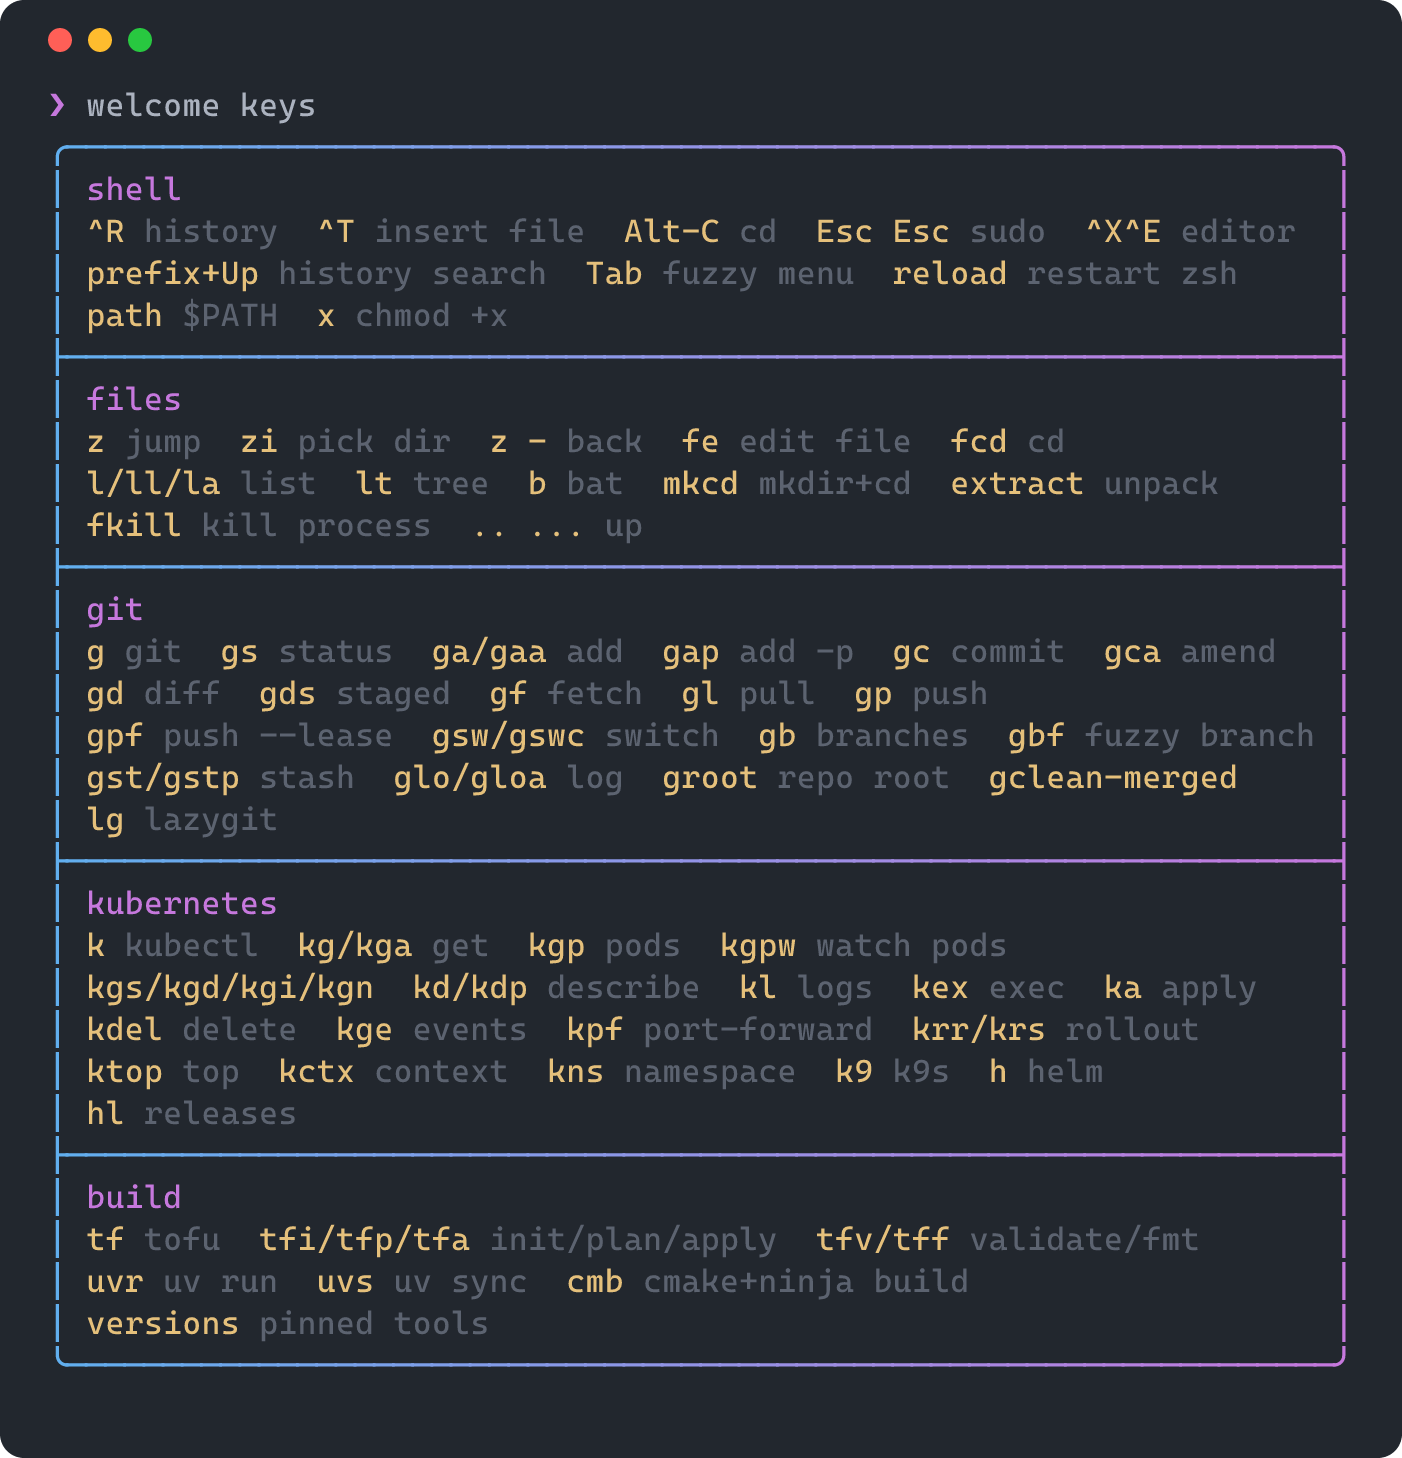
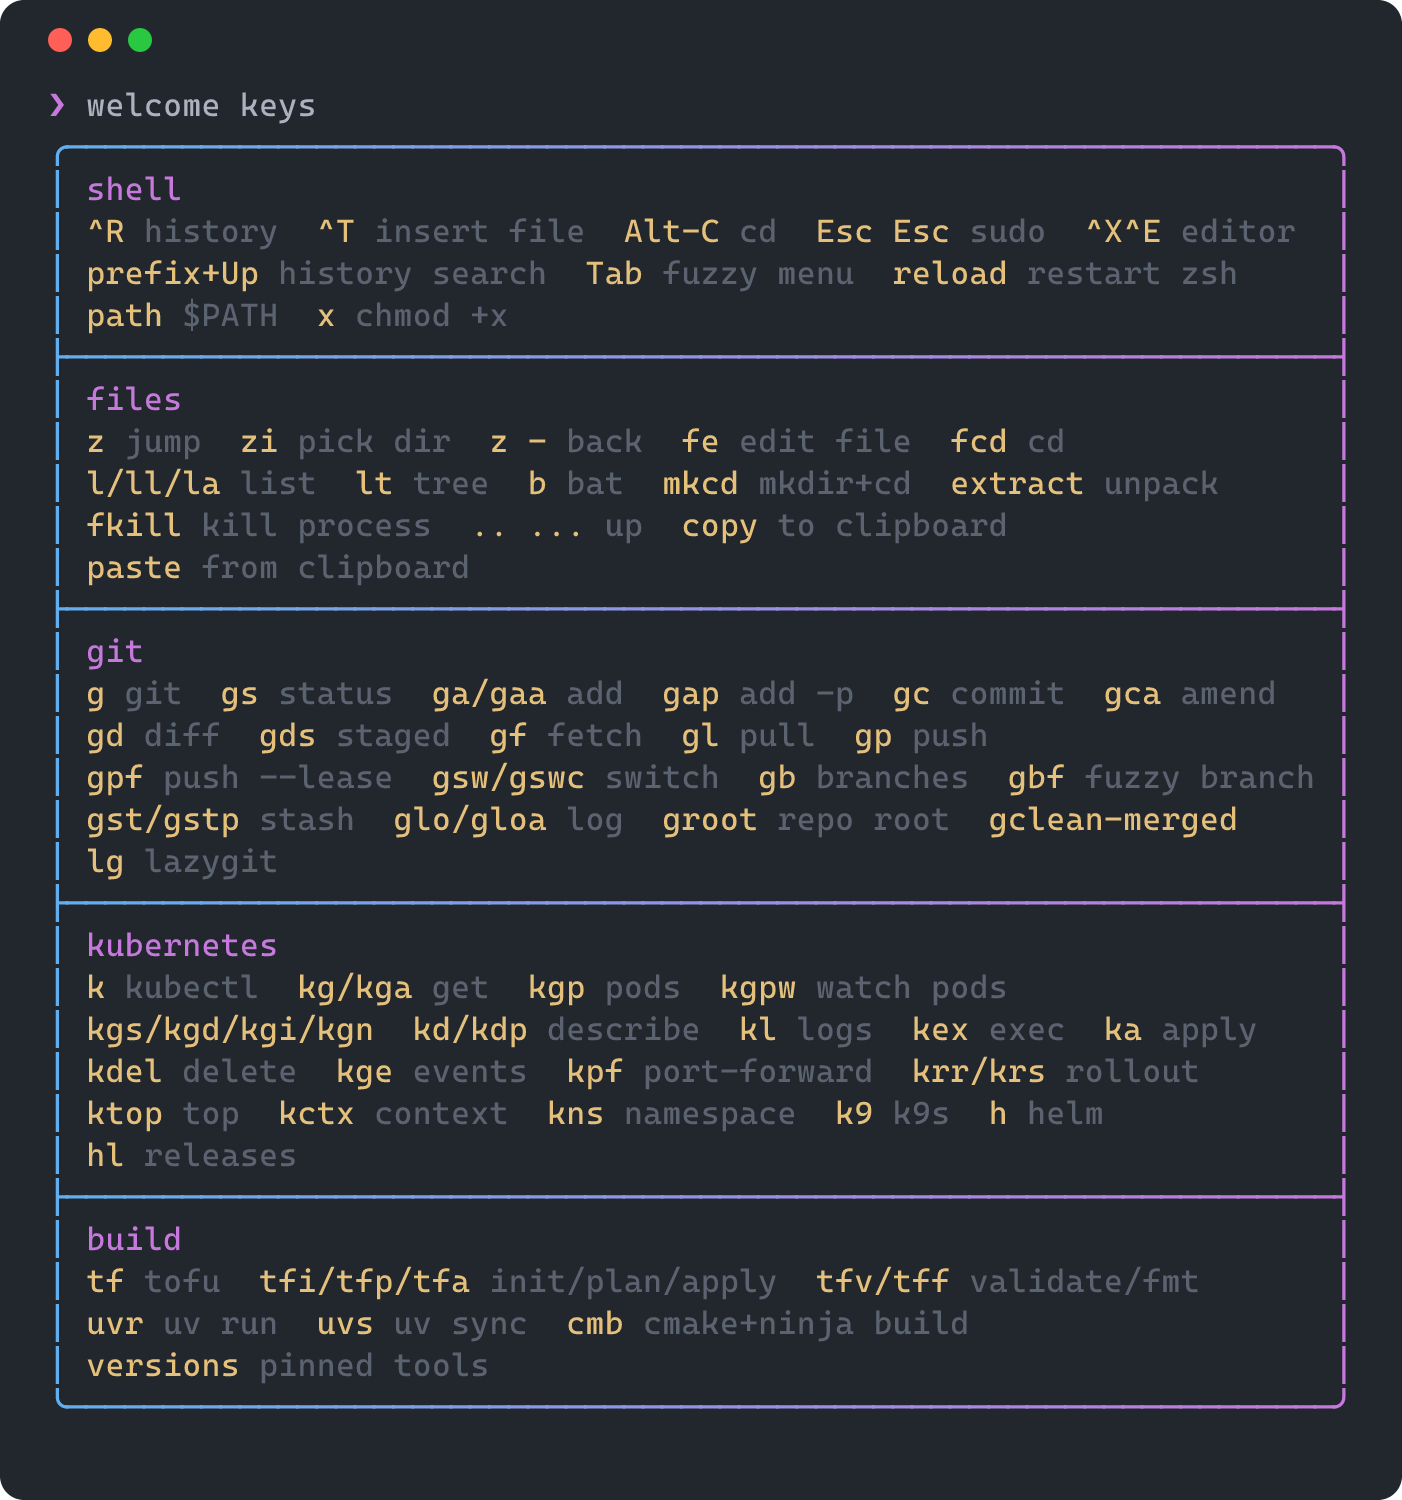
feat(zsh): add copy and paste for the clipboard
`<command> | copy` or `copy <file>` puts text on the clipboard and
`paste` prints it, with whatever clipboard the shell has: the dev image's
xclip bridge in a container, and on hosts that use this shell config,
pbcopy/pbpaste (macOS), the Windows clipboard from WSL (clip.exe with
UTF-16 so non-ASCII text survives, PowerShell to read), wl-copy/wl-paste
(Wayland), xclip (X), or else OSC 52.

paste(1) is a standard command, so `paste` only reads the clipboard when
called alone at the prompt; with arguments or piped input it is still
paste(1). A bare `copy` shows its usage instead of waiting for input.
Both are in `welcome keys` and the tips.

Changed region(s): [[0.0307, 0.0617, 0.9508, 0.9568]]

diff --git a/.claude/CLAUDE.md b/.claude/CLAUDE.md
@@ -27,7 +27,7 @@ Read first: [README.md](../README.md) (usage, development, releases), [docs/arch
 - `config/zsh` → `/usr/local/share/toolchain/zsh` (shared, root-owned). `config/starship` → `/usr/local/share/toolchain/starship` (the Dockerfile switches the image's copy to the `one_dark_container` palette and the whale OS symbol, so a container prompt is Docker blue; hosts keep the orange; the first segment's color is `color_user`, keep it in both palettes). `config/git/gitconfig` → `/etc/gitconfig`. `config/home/` is seeded into `/home/vscode` (vscode-owned). `config/claude/` holds the managed policy; `config/keys/` the vendored release-signing keys (mise, Docker's apt repo; fingerprints pinned in the Dockerfile).
 - `/etc/toolchain/{release,versions,previous}` (dev): image version/revision/build date/source/previous release, the `print-versions` output, and the previous release's tools. The last Dockerfile layer writes them from bake's `VERSION`/`REVISION`/`SOURCE_URL`/`PREVIOUS_*`. The release workflow gets `PREVIOUS_*` from `scripts/previous_tools.sh` (the previous GitHub Release's toolchain table); local builds leave them empty. The zsh `welcome` function (`functions/welcome.zsh`, shown by `post.d/95-welcome.zsh`) only reads files and variables. Keep it free of tool invocations and subshells (`$(<file)` is fine) so startup stays at a few ms. Its box sizes itself to the widest row (minimum 66 columns) and clips rows with `…` rather than outgrow the terminal; `make test-welcome` checks that every border lines up. After changing what it shows, run `make screenshots` (sample fixtures, so nothing personal appears) to refresh `docs/assets/welcome*.png` in the README. shfmt formats zsh here as bash: no arithmetic subscripts like `$a[i+1]` and no `for k v in`.
 - Lifecycle (`docs/lifecycle.md`): `scripts/lib/lifecycle.sh` (stages and markers in `~/.local/state/toolchain/lifecycle`, inside the container on purpose) and `scripts/lib/validate.sh` go to `/usr/local/lib/toolchain/` in both images; `dev-status`/`dev-wait`/`dev-reset` (dev) read them. `lifecycle::stage`/`once` refuse to run from a condition, where bash ignores errexit even in subshells. `make test-lifecycle` covers it.
-- Clipboard and browser (dev): `scripts/clipboard.sh` is installed as `/usr/local/bin/xclip`, in front of the real `/usr/bin/xclip`: the display VS Code forwards (WSLg on Windows; the real xclip runs under `setsid` so a closing terminal doesn't drop the copy), else OSC 52 to `/dev/tty`. `scripts/xdg_open.sh` is `xdg-open`: `$BROWSER` (VS Code's helper), else print and copy the URL. `make test-clipboard` covers both (Xvfb, network).
+- Clipboard and browser (dev): `scripts/clipboard.sh` is installed as `/usr/local/bin/xclip`, in front of the real `/usr/bin/xclip`: the display VS Code forwards (WSLg on Windows; the real xclip runs under `setsid` so a closing terminal doesn't drop the copy), else OSC 52 to `/dev/tty`. `scripts/xdg_open.sh` is `xdg-open`: `$BROWSER` (VS Code's helper), else print and copy the URL. The zsh `copy`/`paste` functions (`functions/clipboard.zsh`) pick the clipboard for the machine they run on, including hosts (macOS, WSL via UTF-16 `clip.exe` and PowerShell, Wayland, X, else OSC 52); `paste` with arguments or piped input stays `paste(1)`. `make test-clipboard` covers all of it (Xvfb, network).
 - Docker (dev): the CLI from Docker's signed apt repo (key vendored, fingerprint pinned; Renovate `deb` datasource), buildx/compose from the dev mise manifest, linked into `/usr/local/lib/docker/cli-plugins`. The template mounts the host socket at `/var/run/docker-host.sock`; `scripts/docker_socket_init.sh` (the label's `postStartCommand`, via sudo) serves it as `/var/run/docker.sock` (group `docker`) through socat. Never chmod/chown the mounted socket: it's the host's file. `make test-docker` covers it.
 - `template/`: the consumer repository template (`.devcontainer/` with lifecycle scripts, `.vscode/`, `dev.sh`, README). Its image is a placeholder (project-neutral); `scripts/render_template.sh` fills it in, for the release asset `template.tar.gz` and for `make test-template` (devcontainer CLI end to end; the CLI version is pinned in `tests/template.sh` and bumped by Renovate; it must be 0.80.2 or newer, since older versions hang forever on Docker 29's container-start events). `dev.sh` runs on hosts, so it is POSIX `sh`, not bash.
 - `make build test` is the inner loop; see `make help` and the README for every target. To add a tool: edit a manifest, run `make lock`, add a probe to `tests/smoke.sh` (the test fails without one), then `make build test`.

diff --git a/docs/customizing.md b/docs/customizing.md
@@ -161,6 +161,19 @@ sign-in page, OAuth sign-ins, lazygit) reach your machine:
 | `xclip`    | Copies and pastes through the display VS Code forwards (WSLg on Windows)    | Copies with OSC 52, an escape sequence your terminal turns into a clipboard copy; paste with the terminal |
 | `xdg-open` | Opens the URL in your machine's browser through VS Code's `$BROWSER` helper | Prints the URL and copies it, to paste into your browser                                                  |
 
+In the shell, `copy` and `paste` do this by hand:
+
+```sh
+git log -1 --format=%H | copy   # a command's output onto your clipboard
+copy notes.md                   # a file
+paste                           # print the clipboard
+```
+
+They use whatever clipboard is there, so they work the same on a host with this shell config:
+`pbcopy`/`pbpaste` on a Mac, the Windows clipboard from WSL, `wl-copy`/`wl-paste` on Wayland,
+`xclip` on X, or else OSC 52. `paste` with arguments or with input piped in is still the standard
+`paste` (merging lines of files).
+
 `xclip` here is the image's wrapper (`/usr/local/bin/xclip`) in front of the real one: it tries the
 display first and falls back to OSC 52, so programs that copy with `xclip` just work. OSC 52 needs a
 terminal that supports it: VS Code, Windows Terminal, iTerm2, kitty, WezTerm, foot and Alacritty
